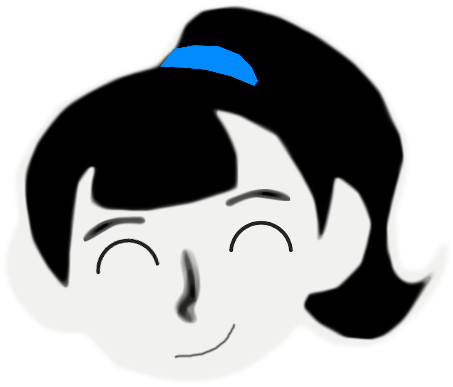
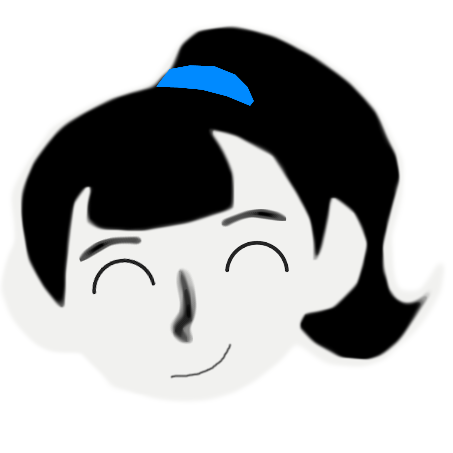
malumxz
agregar niña a login

diff --git a/login.html b/login.html
@@ -17,7 +17,7 @@
 	<center>
   <div class="wrap">
 		<div class="avatar">
-      <img src="candy.png">
+      <img src="img/susi-girl.png">
 		</div>
 		<input type="text" placeholder="username" required>
 		<div class="bar">
